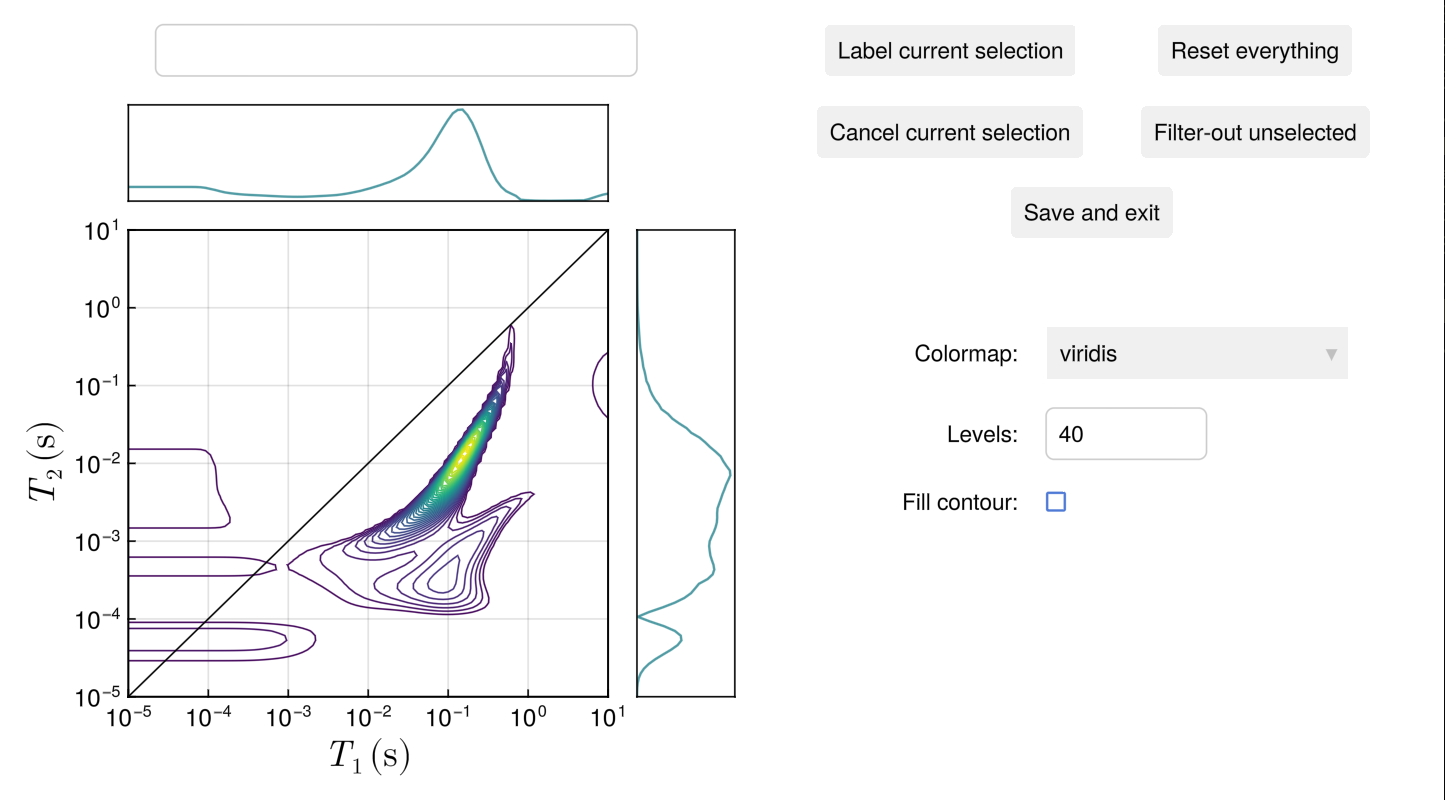
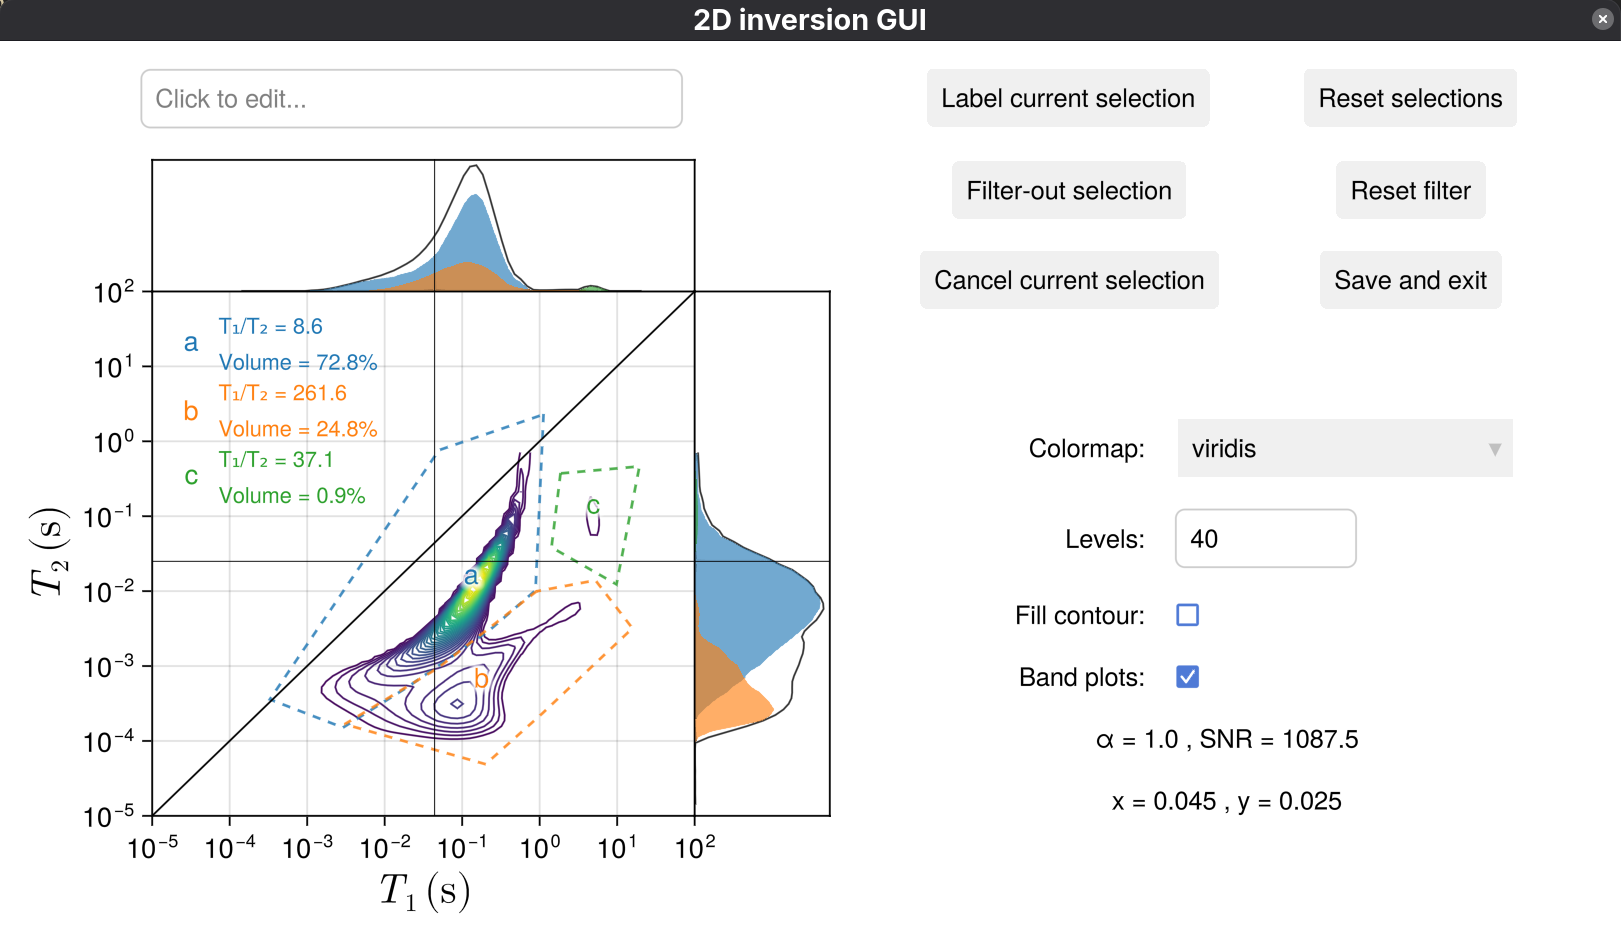
updated docs for gui updates

diff --git a/docs/src/tutorial.md b/docs/src/tutorial.md
@@ -89,11 +89,14 @@ Then you can use the following options:
 - `Label current selection` will highlight the selected region 
   and add some text in the plot with the weighed average ``T_2``
   of that region.
-- `Filter-out current selection` will remove the selected region 
+- `Filter-out selection` will remove the selected region 
   from the distribution, and it will update the fit and the residuals 
   accordingly on the plot.
 - `Reset selections` gets you back where you started, removes any 
   selections and brings back filtered-out regions.
+-  `Change y scale` will change the 1st plot from linear scale to log 
+   scale and back. Only works if there are no negative values (so it will 
+   not work for inversion recovery data).
 - `Save and exit` will bring up a window so that you can save your 
    plot as a .png (without the buttons and the slider).
 
@@ -117,11 +120,11 @@ the plot which enclose a region of interest. Then, we can :
 - `Label current selection` will highlight the selected polygon 
   with a dashed line and add some text in the plot with the weighed 
   average ``T_1/T_2`` of that region, as well as the volume fraction of it.
-- `Filter-out unselected` will remove everything outside the polygon.
+- `Filter-out selection` will remove everything inside the selection polygon.
 - `Cancel current selection` will discard the current polygon in 
    case you do not like what you selected.
-- `Reset everything` will get you back to the original state, 
-   removing selections and restoring filtered-out regions.
+- `Reset selection` will remove all the selections you made.
+- `Reset filter` will undo anything you filtered-out.
 - `Save and exit` will bring up a window so that you can save your 
    plot as a .png (without the buttons).
 
